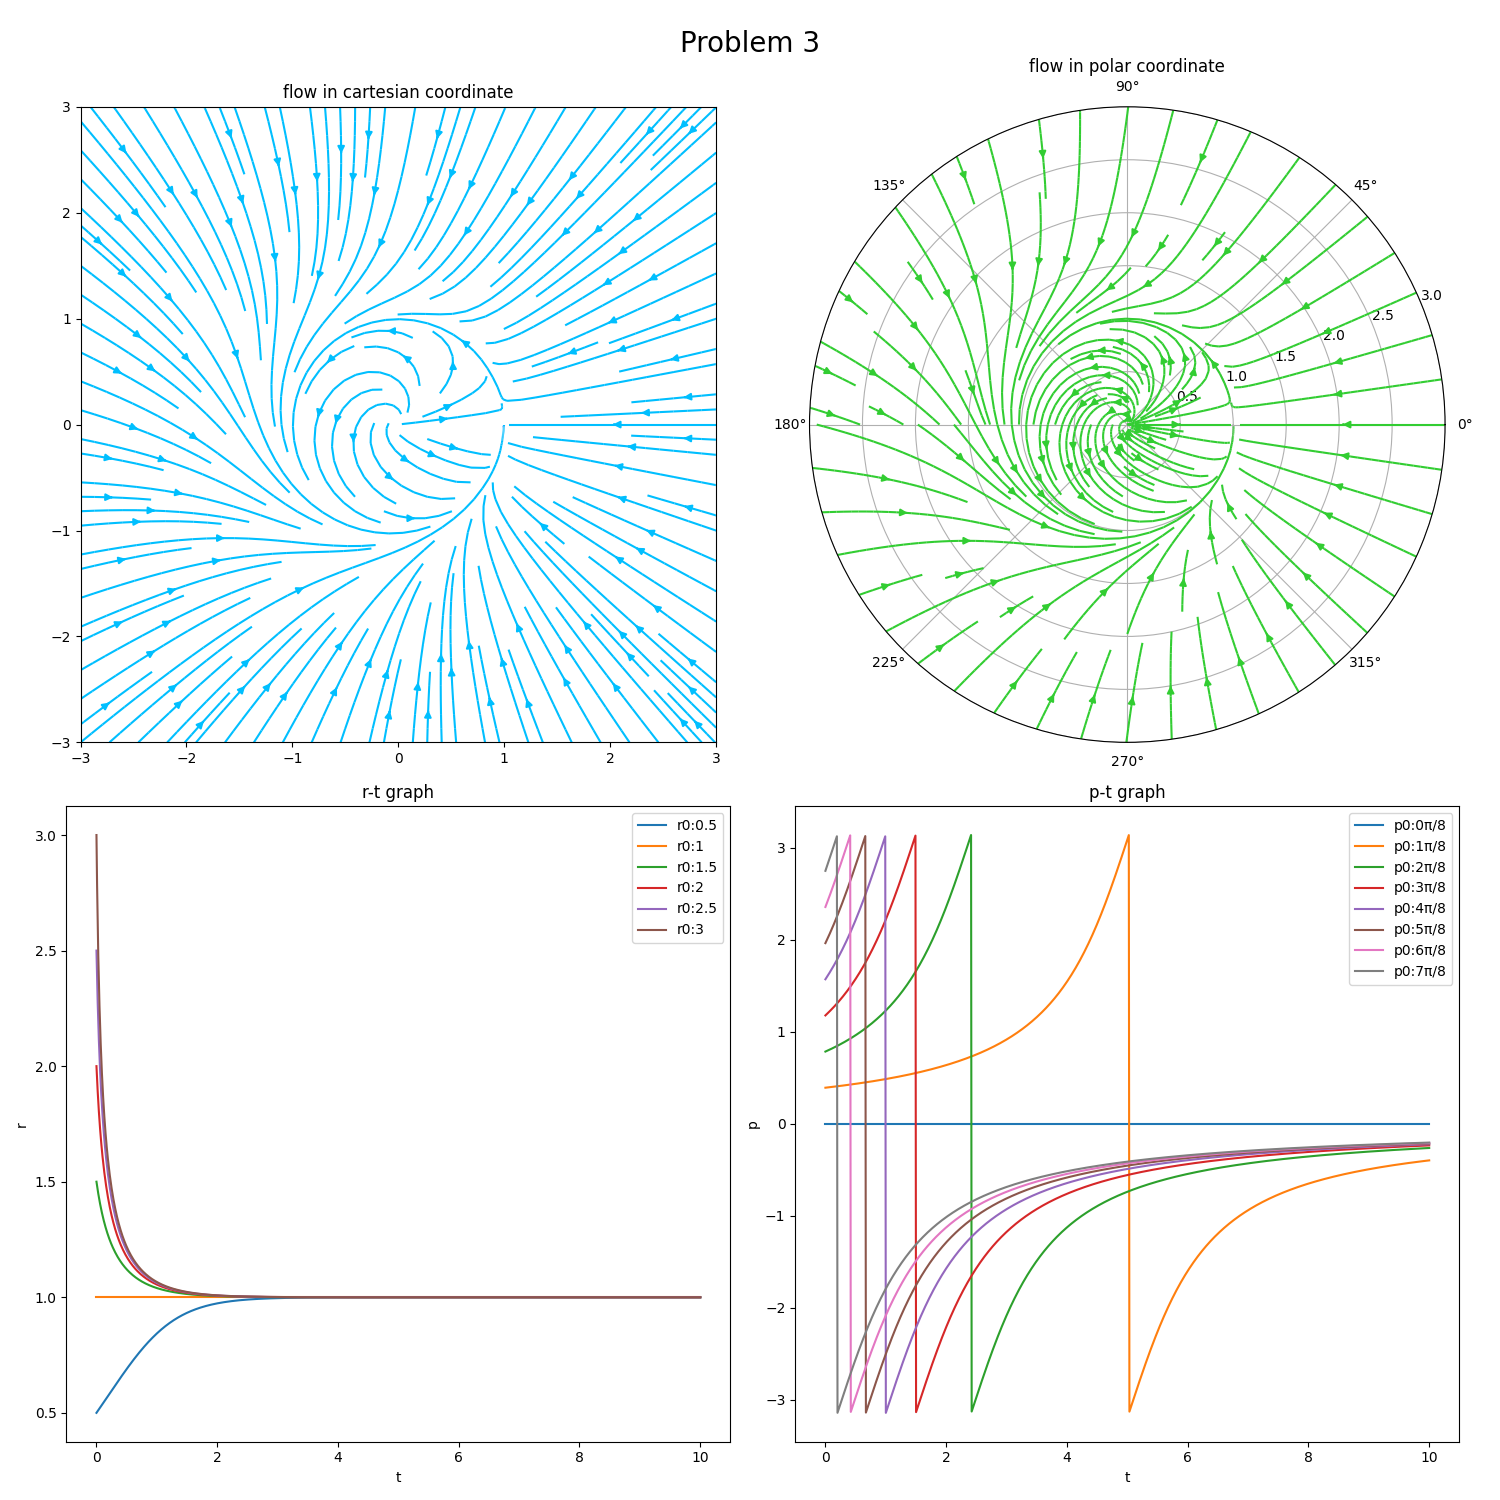
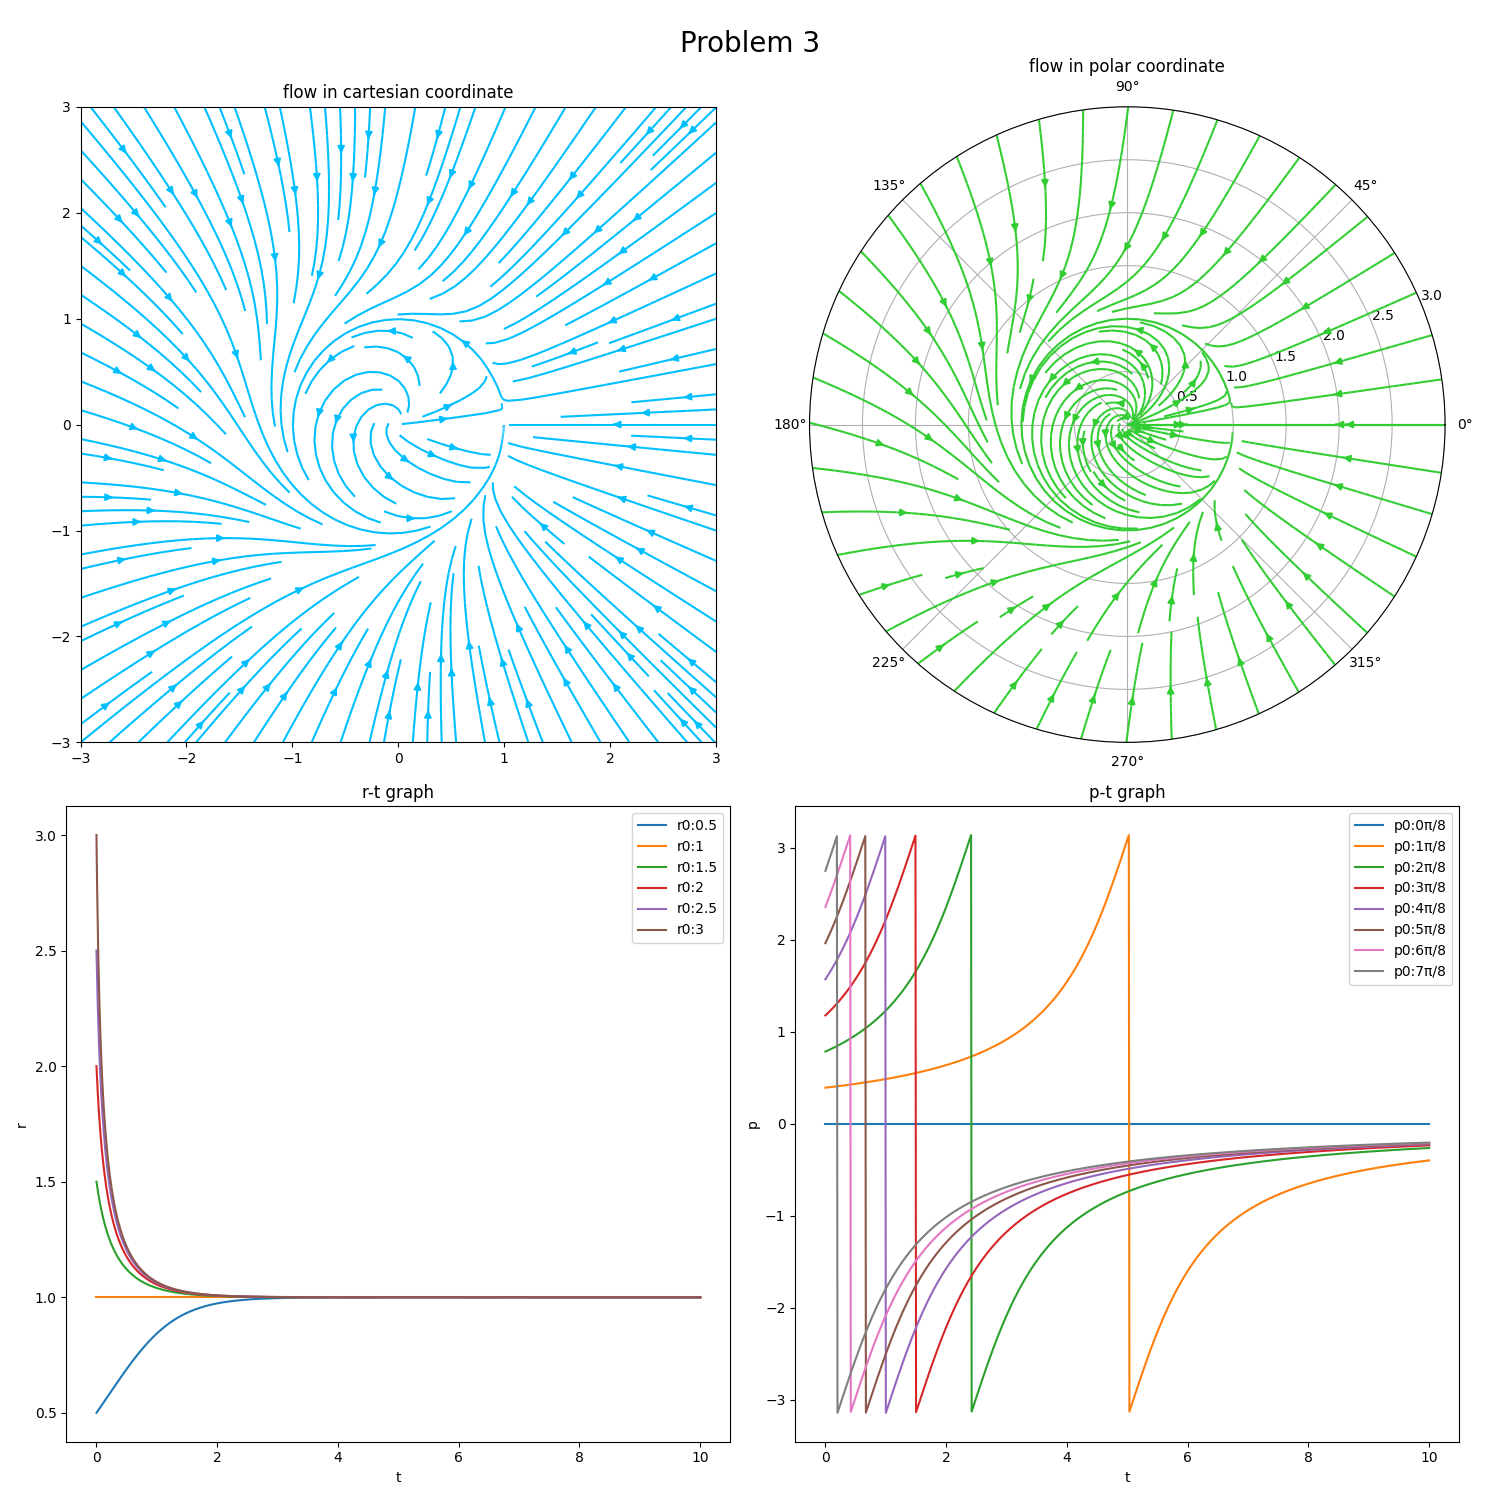
change the domain of theta to [0,2π)

diff --git a/情報理工/2015/3.py b/情報理工/2015/3.py
@@ -23,7 +23,7 @@ ax1.set_title("flow in cartesian coordinate")
 # 極座標表示
 ax2 = plt.subplot(222, projection="polar")
 raw_r = np.linspace(0, MAX_R, 100 + 1)
-raw_p = np.linspace(-math.pi, math.pi, 360 * 10 + 1)
+raw_p = np.linspace(0, 2 * math.pi, 360 * 10 + 1)
 r, p = np.meshgrid(raw_r, raw_p)
 drdt = r - r**3
 dpdt = 1 - np.cos(p)
